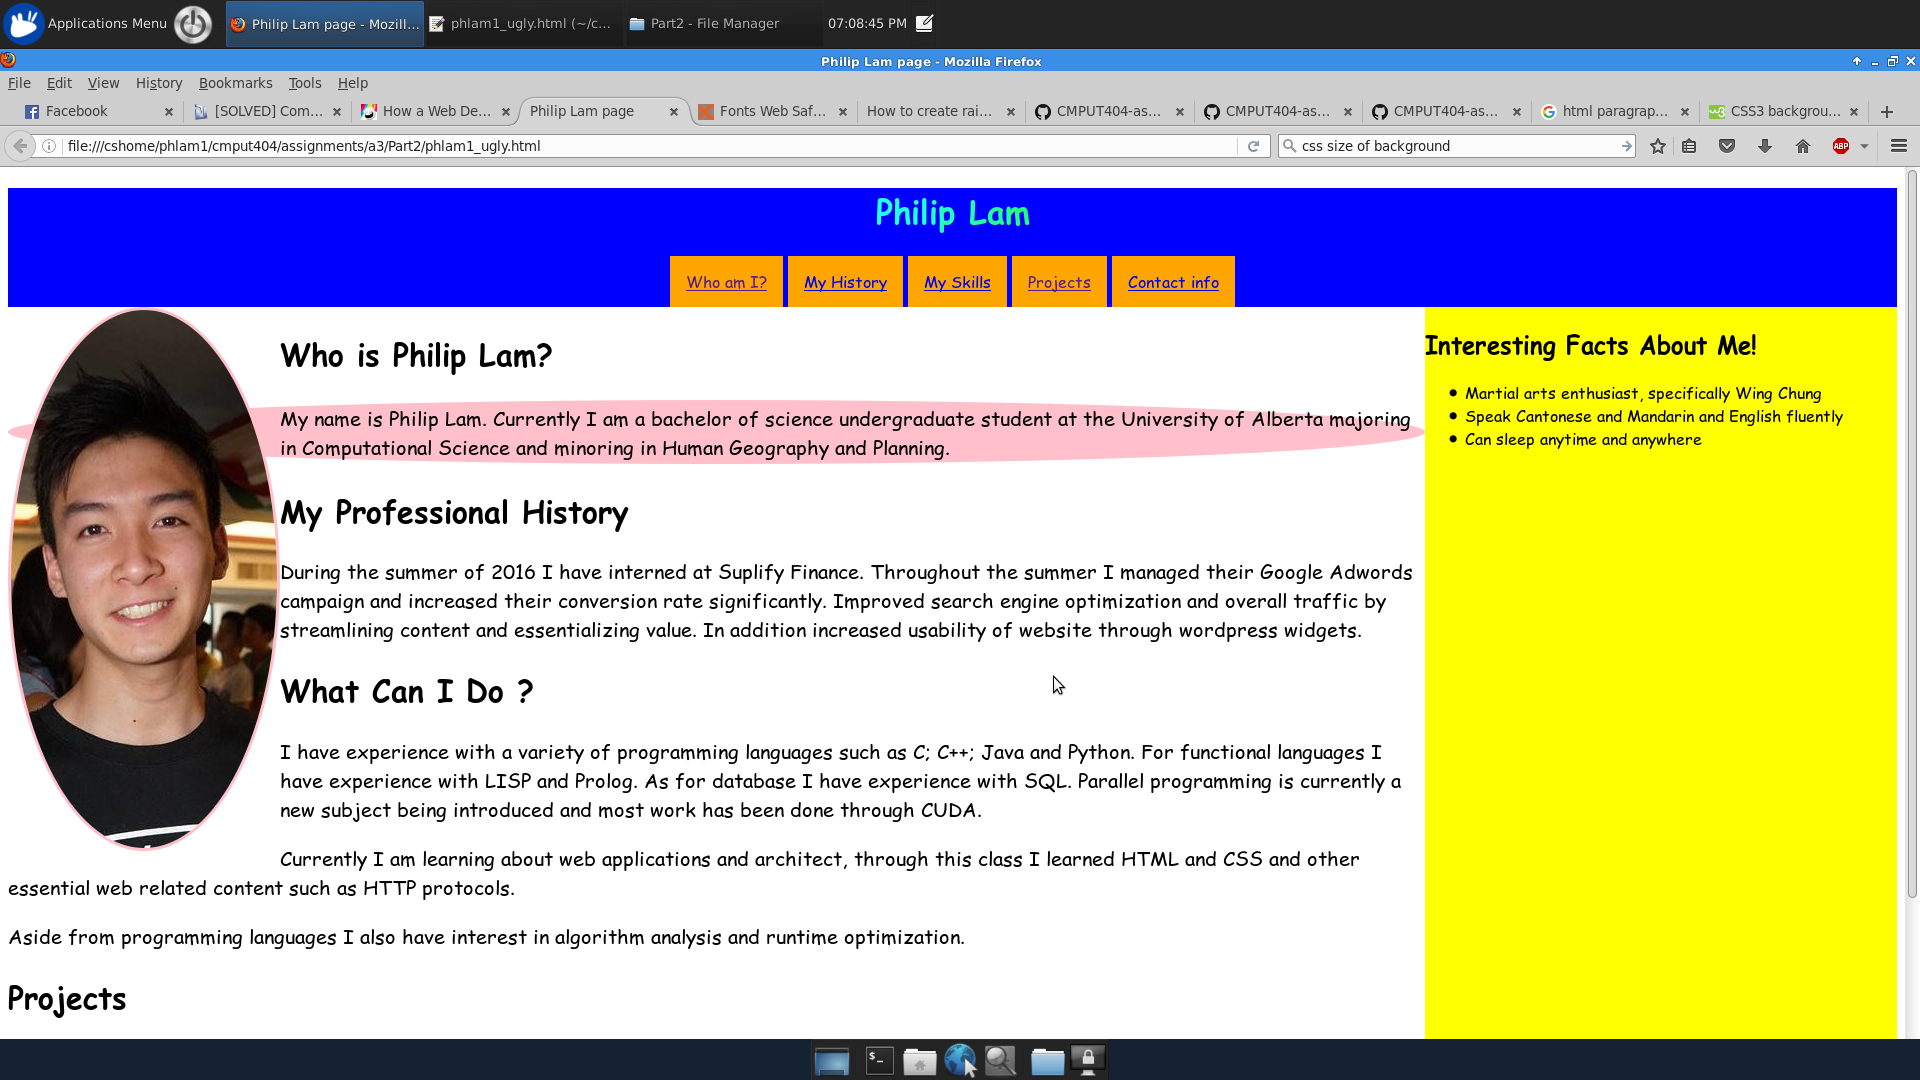
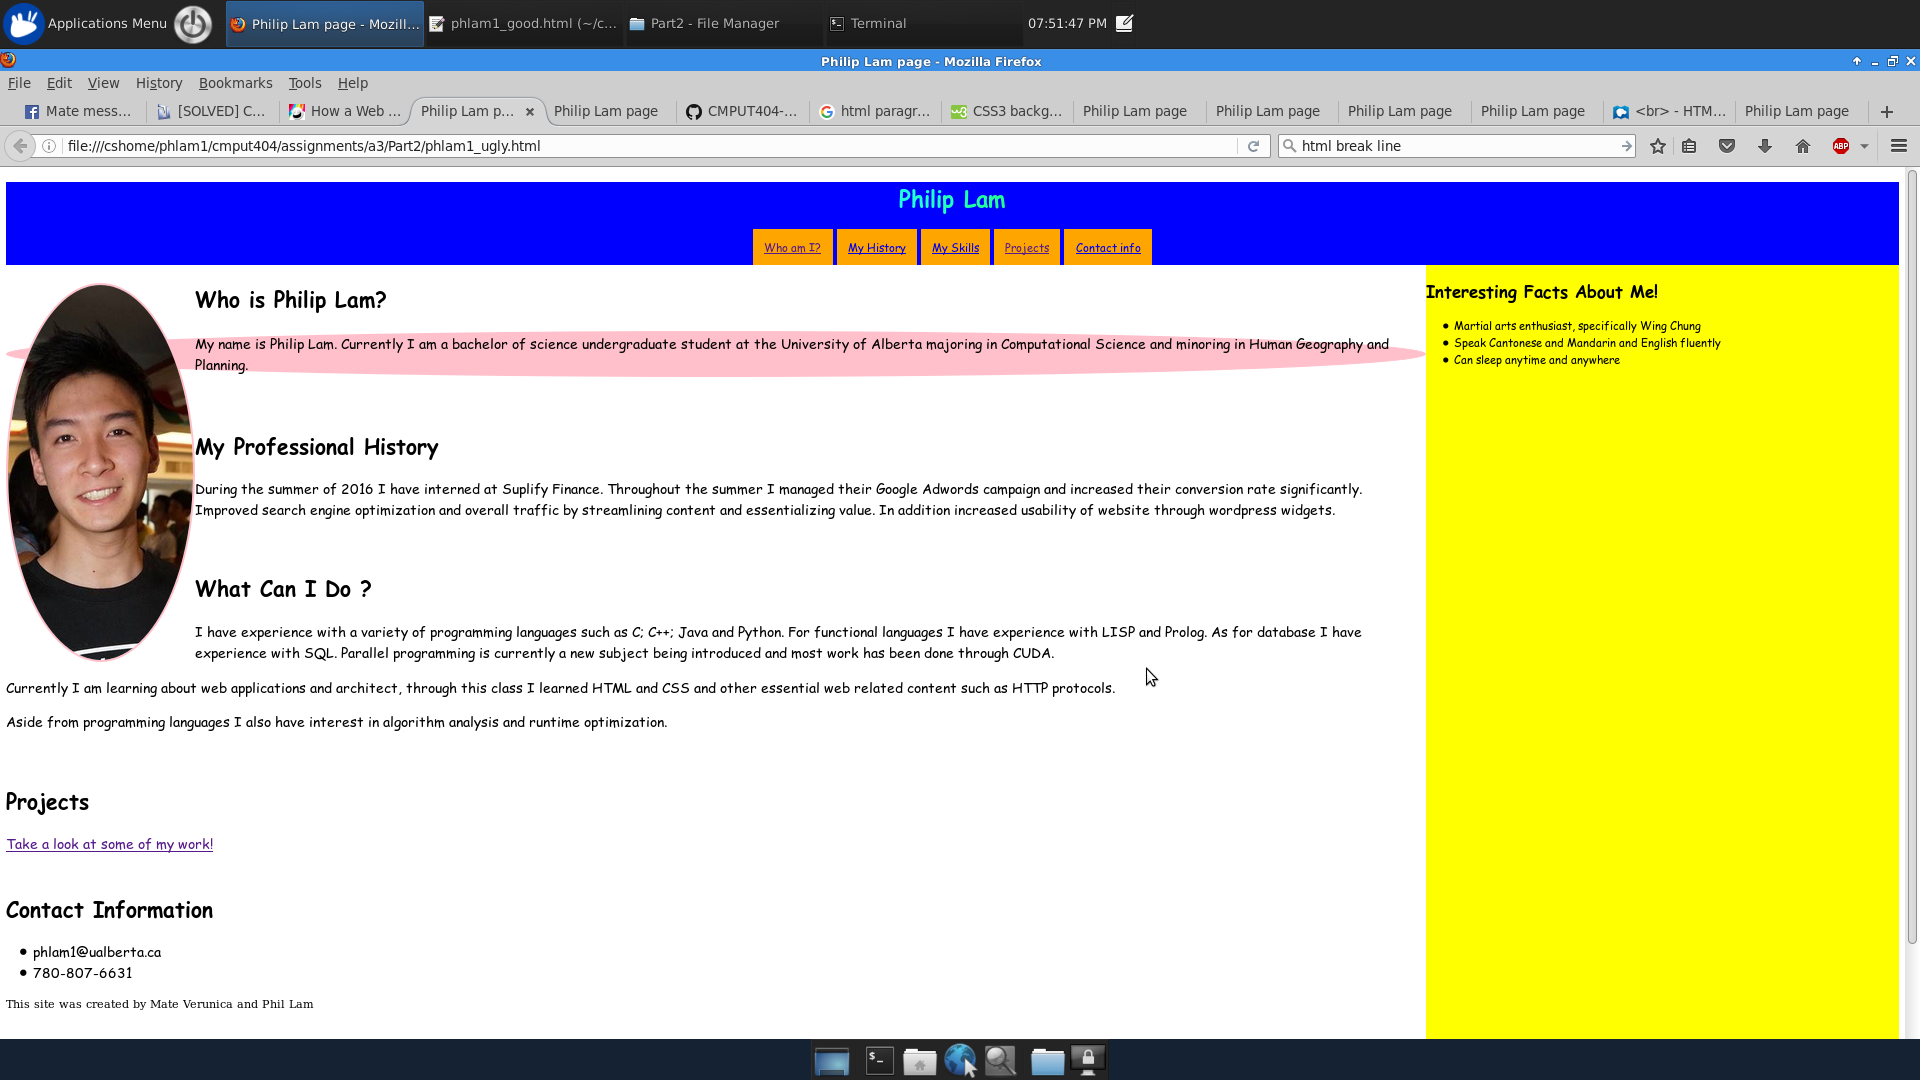
complete

diff --git a/Part2/phlam1_good.html b/Part2/phlam1_good.html
@@ -8,9 +8,9 @@
 </head>
 
   <body>
-
+	<div class="header"></div>
     <div class="top">
-      <h1>Philip Lam</h1>
+      <h1 class = "rainbow">Philip Lam</h1>
     <ul id="nav">
       <li id="link"><a href="#who">Who am I?</a></li>
       <li id="link"><a href="#history">My History</a></li>
@@ -31,29 +31,37 @@
 
     </div>
     <div class="body">
-      <h2 id="who"> Who is Philip Lam? </h2>
-        <p> My name is Philip Lam. Currently I am a bachelor of science undergraduate student at the University of Alberta majoring in Computational Science and minoring in Human Geography and Planning. </p>
-     
+		<div> 
+		  <h2 id="who"> Who is Philip Lam? </h2>
+		    <p id="pink"> My name is Philip Lam. Currently I am a bachelor of science undergraduate student at the University of Alberta majoring in Computational Science and minoring in Human Geography and Planning. </p>
+		</div>
+		<br>
+		<div>
+		  <h2 id="history"> My Professional History </h2>
+		  <p> During the summer of 2016 I have interned at Suplify Finance. Throughout the summer I managed their Google Adwords campaign and increased their conversion rate significantly. Improved search engine optimization and overall traffic by streamlining content and essentializing value. In addition increased usability of website through wordpress widgets.</p>
+		</div>
+		<br>
+		<div>
+		  <h2 id="skills"> What Can I Do ? </h2>
+		  <p> I have experience with a variety of programming languages such as C; C++; Java and Python. For functional languages I have experience with LISP and Prolog. As for database I have experience with SQL. Parallel programming is currently a new subject being introduced and most work has been done through CUDA. </p>
 
-      <h2 id="history"> My Professional History </h2>
-      <p> During the summer of 2016 I have interned at Suplify Finance. Throughout the summer I managed their Google Adwords campaign and increased their conversion rate significantly. Improved search engine optimization and overall traffic by streamlining content and essentializing value. In addition increased usability of website through wordpress widgets.</p>
-      <h2 id="skills"> What Can I Do ? </h2>
-      <p> I have experience with a variety of programming languages such as C; C++; Java and Python. For functional languages I have experience with LISP and Prolog. As for database I have experience with SQL. Parallel programming is currently a new subject being introduced and most work has been done through CUDA. </p>
+		<p>Currently I am learning about web applications and architect, through this class I learned HTML and CSS and other essential web related content such as HTTP protocols. </p>
 
-	<p>Currently I am learning about web applications and architect, through this class I learned HTML and CSS and other essential web related content such as HTTP protocols. </p>
-
-	<p>Aside from programming languages I also have interest in algorithm analysis and runtime optimization.  </p>
-	
-	<h2 id="projects"> Projects</h2>
-	<a href = "https://github.com/phlam1/">Take a look at some of my work!</a>
-
-	
-	<h2 id="contact"> Contact Information </h2>
-		<ul id="contact-new">
-			<li id="email">phlam1@ualberta.ca</li>
-			<li id="phone">780-807-6631</li>
-		</ul>
-
+		<p>Aside from programming languages I also have interest in algorithm analysis and runtime optimization.  </p>
+		</div>
+		<br>
+		<div>
+			<h2 id="projects"> Projects</h2>
+			<a href = "https://github.com/phlam1/">Take a look at some of my work!</a>
+		</div>
+		<br>
+		<div>
+			<h2 id="contact"> Contact Information </h2>
+				<ul id="contact-new">
+					<li id="email">phlam1@ualberta.ca</li>
+					<li id="phone">780-807-6631</li>
+				</ul>
+		</div>
     </div>
     
     <footer id="footer">
@@ -62,6 +70,4 @@
 
 
   </body>
-
-
 </html>

diff --git a/Optional_folder/ugly.css b/Optional_folder/ugly.css
@@ -1,0 +1,81 @@
+
+h1 {
+    text-align: center;
+    color: white;
+}
+
+
+h2 {
+    font-family: "Palatin Linotype";
+    font-color: pink;
+    background: yellow;
+    border-style: solid;
+    border-radius: 75%;
+    border-color: pink;
+    text-align: center;
+    
+
+}
+
+img {
+    display: block;
+    margin: auto;
+    height: auto;
+    width: auto;
+    text-align: center;
+    border-style: dotted;
+    border-radius: 75%;
+    border-color: pink;
+    text-align: center;
+}
+
+.top {
+    background-color: yellow;
+    border-style: dotted;
+    border-radius: 75%;
+    border-color: pink;
+    margin: 0;
+    padding: 0;
+}
+
+#link {
+    float: left;
+}
+
+li a {
+    display: block;
+    color: white;
+    text-align: center;
+    padding: 14px 16px;
+}
+
+#nav {
+    background-color: blue;
+    margin: 0;
+    padding: 0;
+    overflow: hidden;
+}
+
+.body {
+    width: 75%;
+    font-size: 20px;
+    color: yellow;
+}
+
+.facts {
+    float: right;
+    width: 25%;
+    border-style: solid;
+    height: 100%;
+    background-color: red;
+}
+
+li {
+    color: white;
+}
+
+body{
+    background-image: url("wall-stickers-flowers-kids-2.jpg");
+    background-repeat: repeat;
+}
+

diff --git a/Part2/good.css b/Part2/good.css
@@ -30,14 +30,12 @@ img {
     border-top-width: 3em;
     margin: 0;
     padding: 0;
+    text-align:center;
 }
 
-#link {
-    float: left;
-}
 
 li a {
-    display: block;
+    display: inline-block;
     color: white;
     text-align: center;
     padding: 14px 16px;
@@ -48,6 +46,10 @@ li a {
     margin: 0;
     padding: 0;
     overflow: hidden;
+}
+
+#nav li{
+	display:inline-block;
 }
 
 .body {
@@ -97,5 +99,4 @@ html, body{
 .header {
   height: 3em;
   background-image: url("006.jpg");
-
 }
